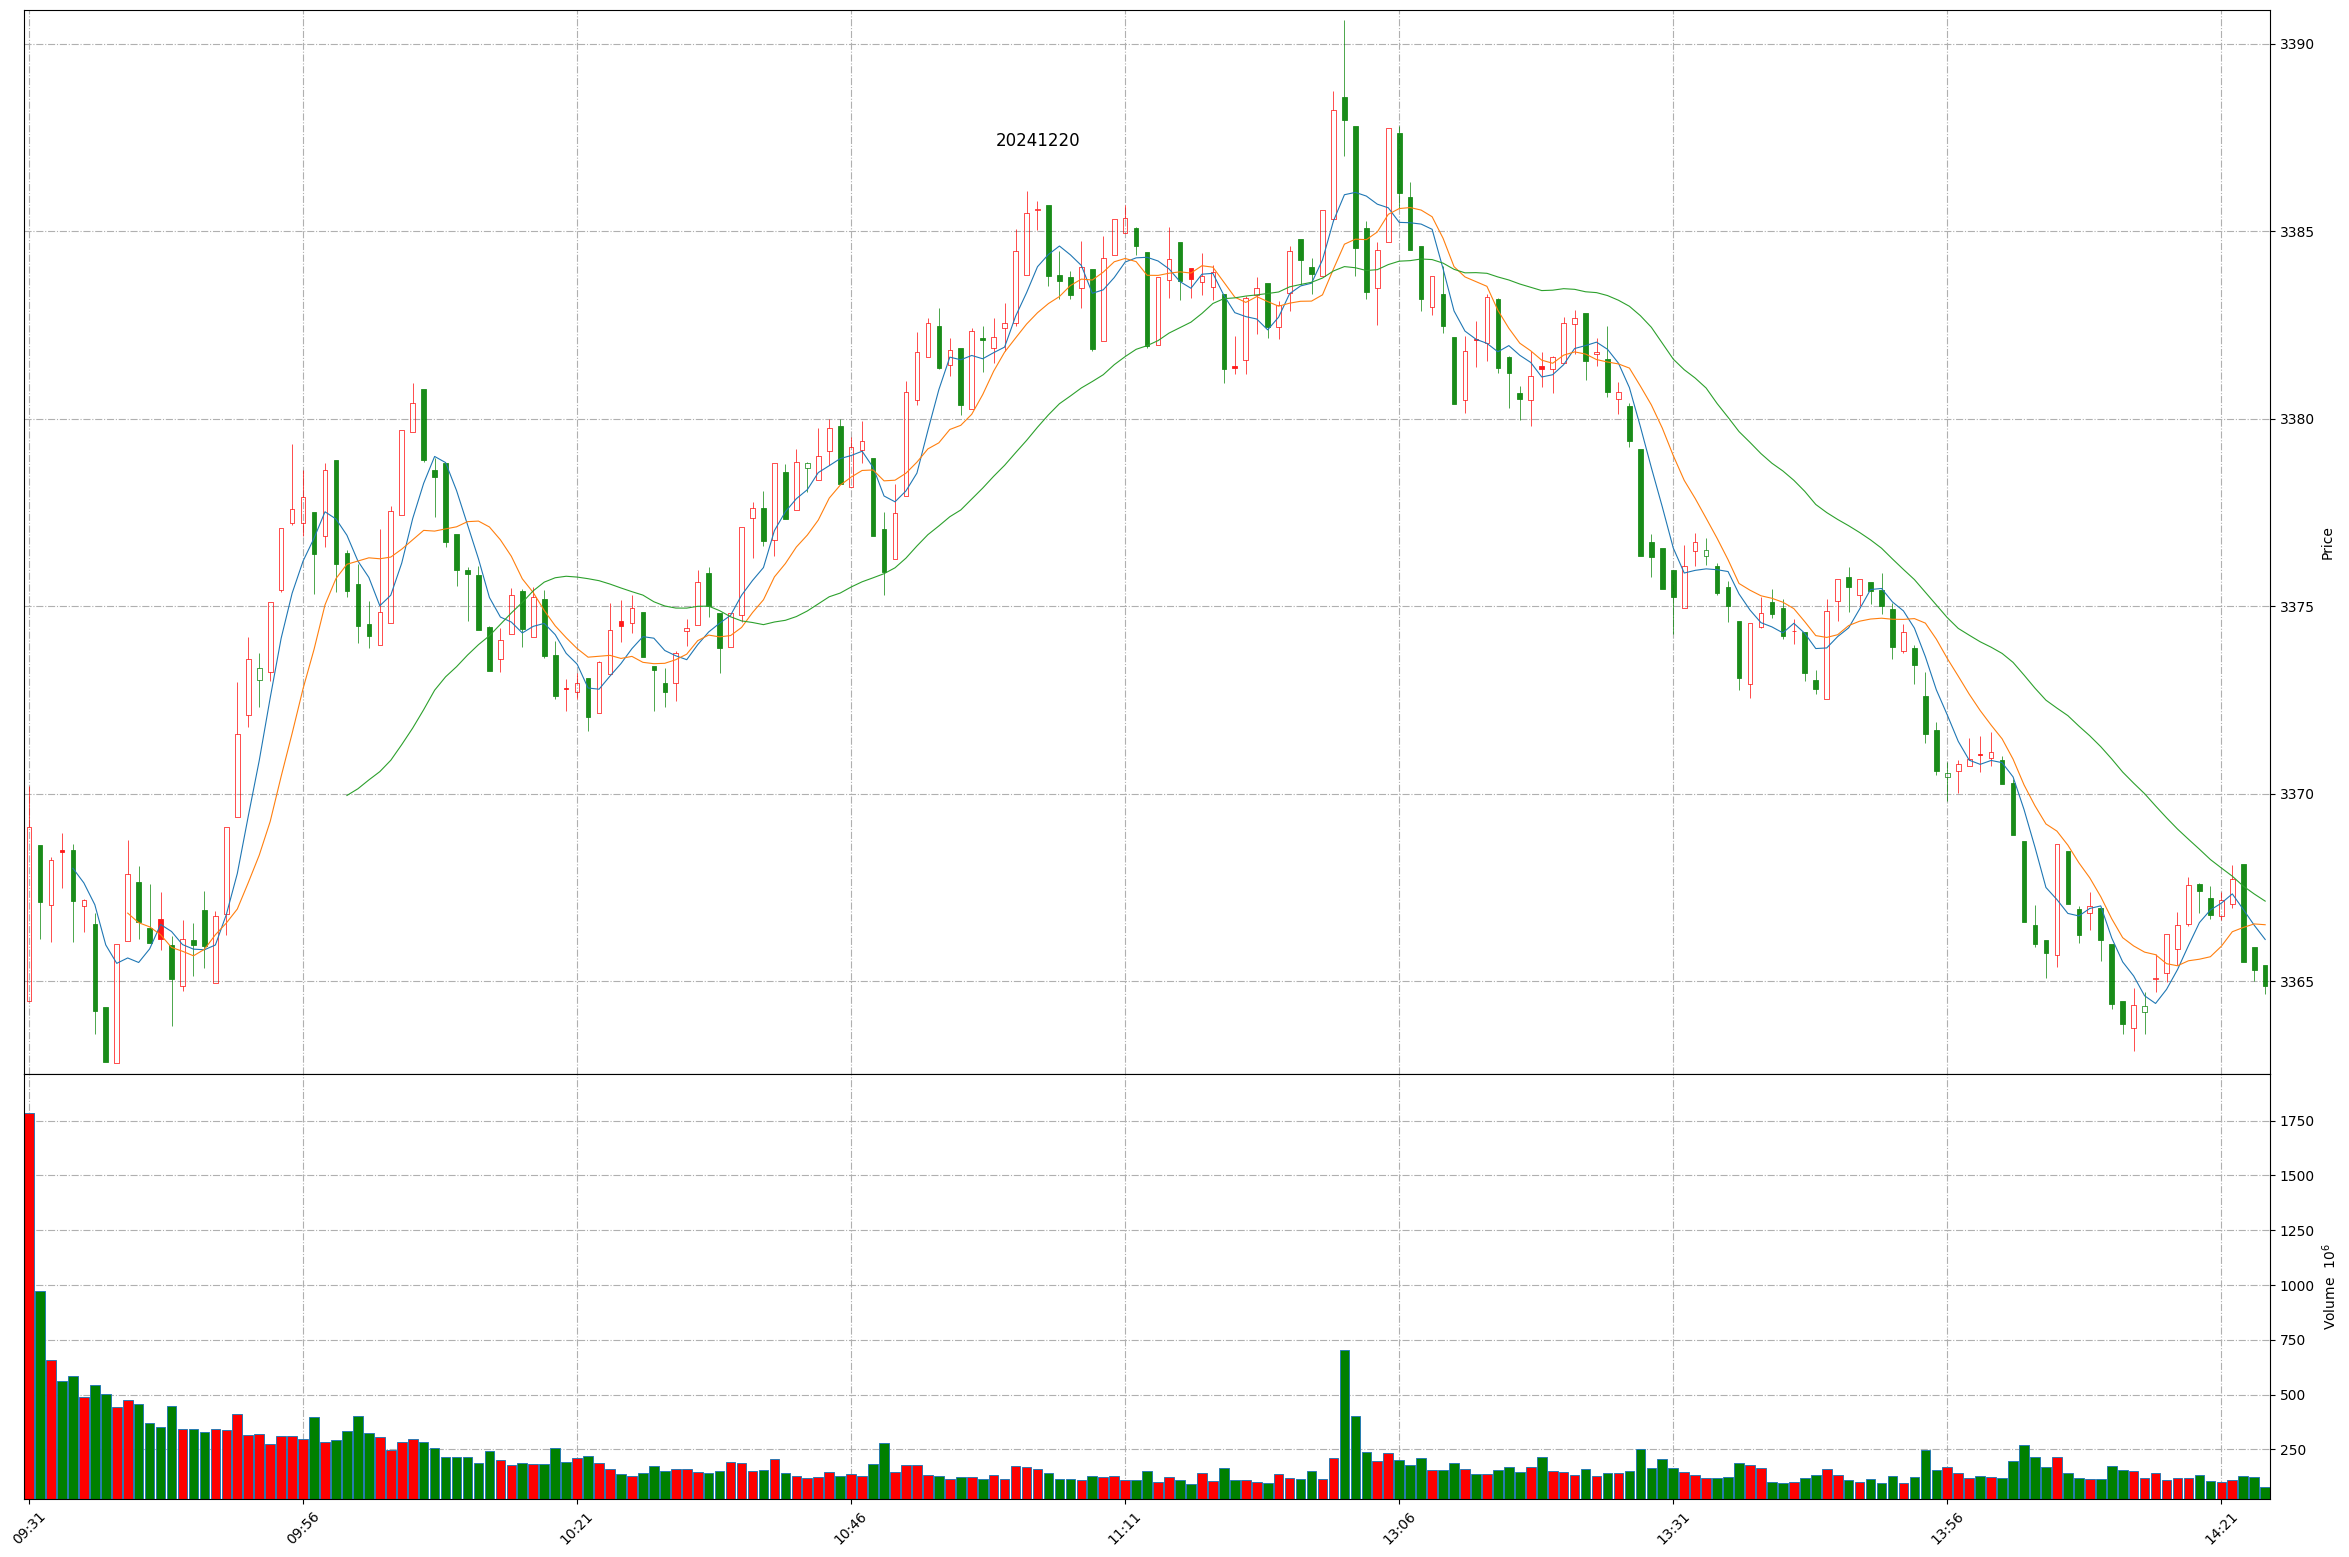
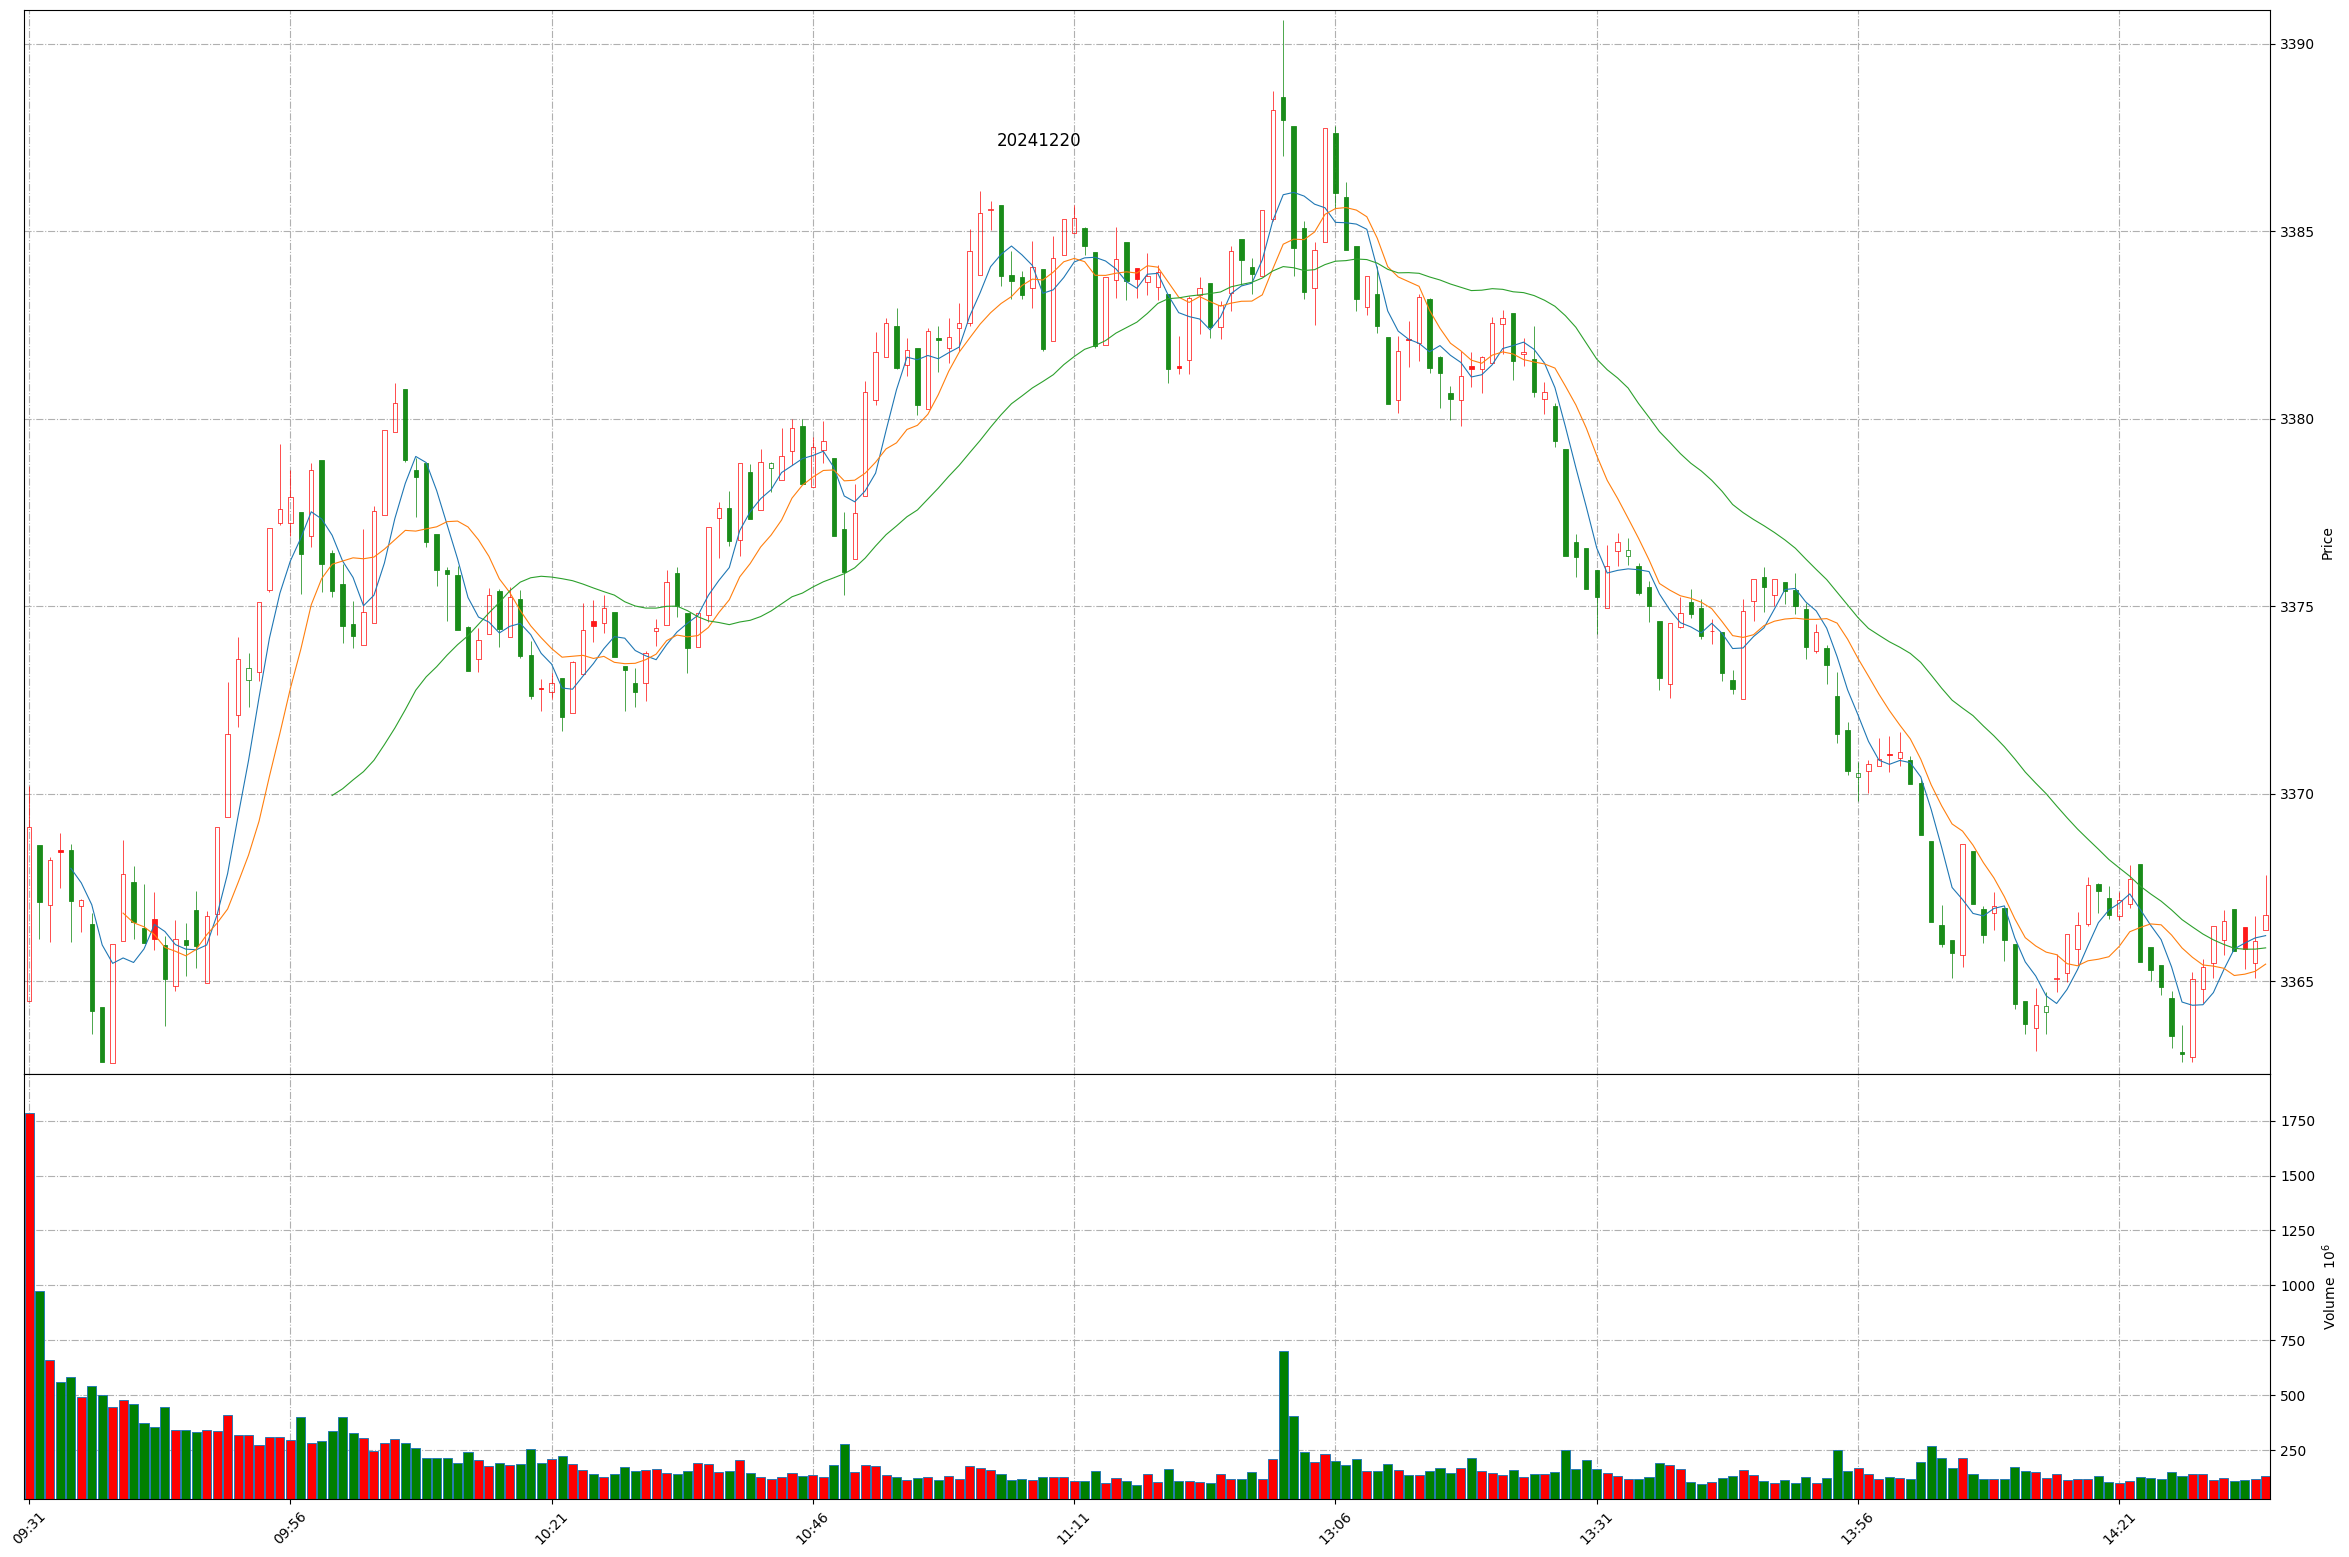
Github action update at 2024-12-20 14:35:19.

Changed region(s): [[0.0932, 0.0617, 0.9634, 0.6782], [0.0, 0.8632, 0.9634, 0.9865], [0.0, 0.5549, 0.0932, 0.6782]]

diff --git a/README.md b/README.md
@@ -1,11 +1,11 @@
 
 # Daily-A-share-market-quotes 每日 A 股指数（5min 更新）- 20241220
 
-### 上证指数 20241220 14:24
+### 上证指数 20241220 14:35
 ![](./fig/2024/12/20241220-sh000001.png)
 
-### 深证成指 20241220 14:24
+### 深证成指 20241220 14:35
 ![](./fig/2024/12/20241220-sz399001.png)
 
-### 北证50 20241220 14:24
+### 北证50 20241220 14:35
 ![](./fig/2024/12/20241220-bj899050.png)
